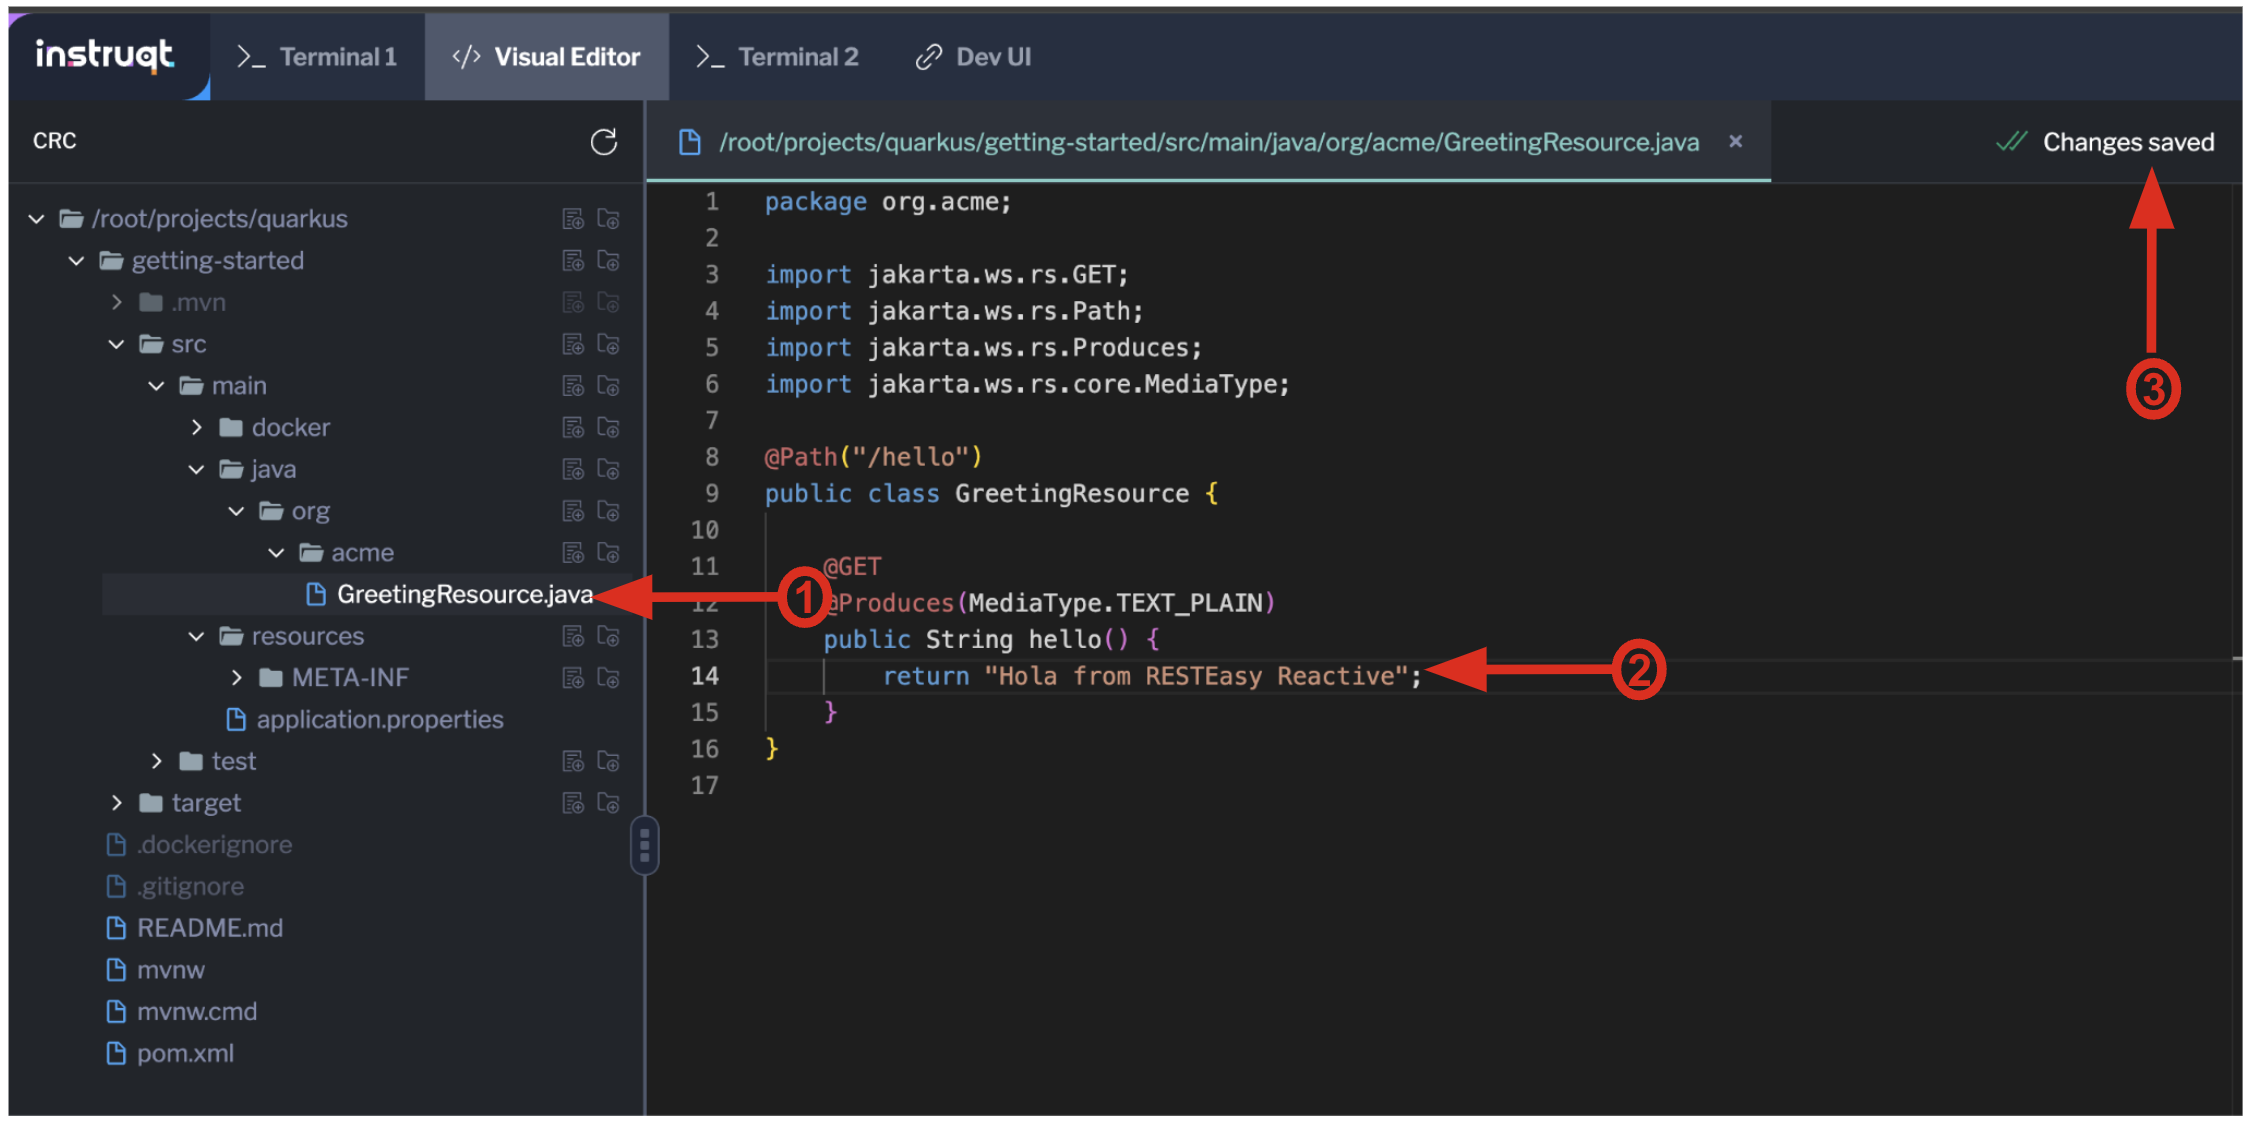
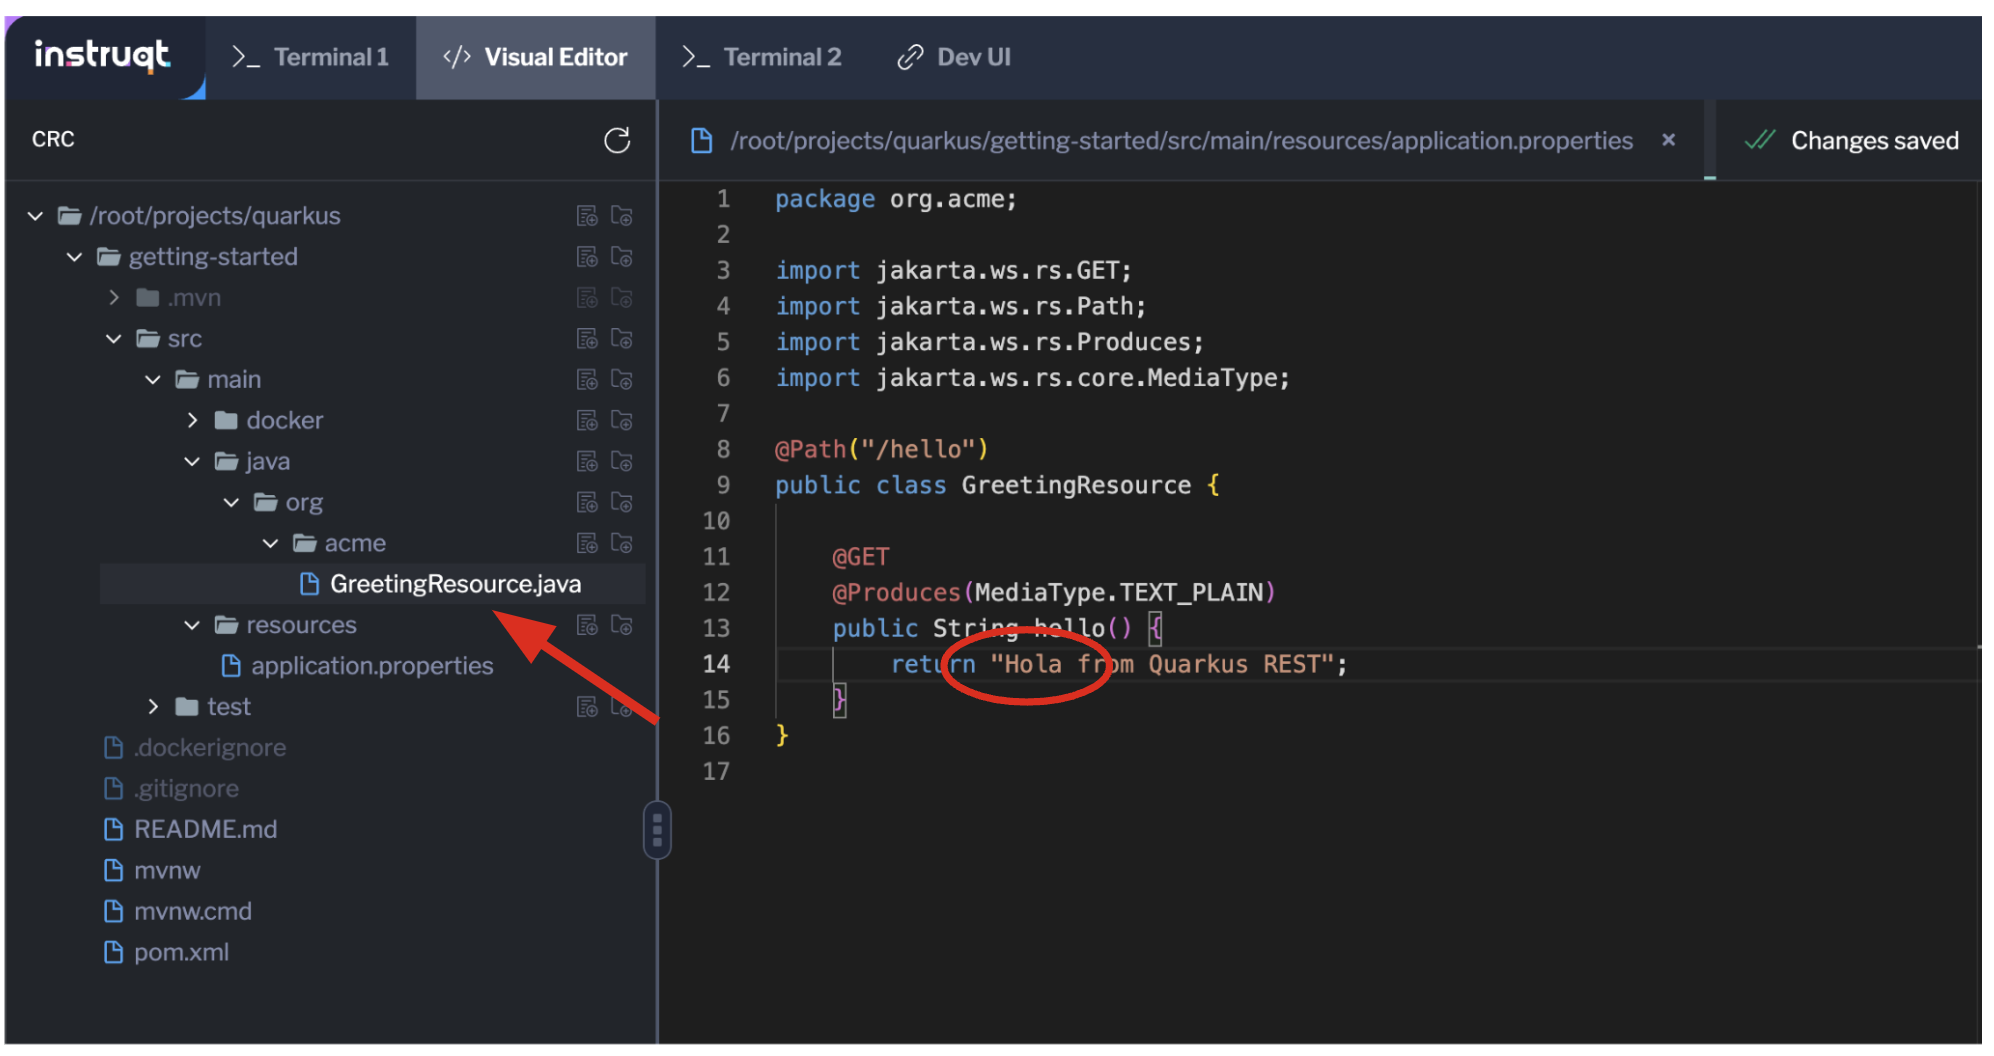
Update Quarkus Short

diff --git a/instruqt-tracks/developing-with-quarkus-getting-started-short/01-01-create-project/assignment.md b/instruqt-tracks/developing-with-quarkus-getting-started-short/01-01-create-project/assignment.md
@@ -114,7 +114,7 @@ You are ready to run the Quarkus application
 `Step 3` Run the following command in Terminal 1 to the left to compile and run the demonstration project.
 
 ```
-mvn quarkus:dev -Dquarkus.http.host=0.0.0.0 -f /root/projects/quarkus/getting-started
+mvn quarkus:dev -Dquarkus.http.host=0.0.0.0 -Dquarkus.analytics.disabled=true -f /root/projects/quarkus/getting-started
 ```
 
 There will be a lot of output to the screen. When the process is finished running, you will see the following:
@@ -127,7 +127,7 @@ __  ____  __  _____   ___  __ ____  ______
 --\___\_\____/_/ |_/_/|_/_/|_|\____/___/
 INFO  [io.quarkus] (Quarkus Main Thread) getting-started 1.0.0-SNAPSHOT on JVM (powered by Quarkus x.x.x) started in 3.618s.Listening on: http://0.0.0.0:8080
 INFO  [io.quarkus] (Quarkus Main Thread) Profile dev activated. Live Coding activated.
-INFO  [io.quarkus] (Quarkus Main Thread) Installed features: [cdi, resteasy-reactive, smallrye-context-propagation, vertx]
+INFO  [io.quarkus] (Quarkus Main Thread) Installed features: [cdi, rest, smallrye-context-propagation, vertx]
 
 --
 Tests paused
@@ -151,7 +151,7 @@ curl -w "\n" localhost:8080/hello/
 You'll get the following output:
 
 ```
-Hello from RESTEasy Reactive
+Hello from Quarkus REST
 ```
 
 As you can see, the service endpoint is up and running.
@@ -164,7 +164,7 @@ Let's take a look.
 
 ----
 
-You are going to change the output of the **Hello App** API application from `Hello RESTeasy Reactive` to `Hola RESTeasy Reactive` by doing nothing more than changing one line of code. Quarkus will take care of everything else.
+You are going to change the output of the **Hello App** API application from `Hello from Quarkus REST` to `Hola from Quarkus RESTe` by doing nothing more than changing one line of code. Quarkus will take care of everything else.
 
 ----
 
@@ -192,7 +192,7 @@ curl -w "\n" localhost:8080/hello/
 You'll get the following output with the new phrase:
 
 ```
-Hola from RESTEasy Reactive
+Hola from Quarkus REST
 ```
 
 As you can see, all you did was change a string in a line of code. Quarkus did the rest!
@@ -235,7 +235,7 @@ As you might recall, when you ran `mvn quarkus:dev` you were presented with the 
 
 ![CT start](../assets/ct-start.png)
 
-As you will see from all the red test class which means the unit test is failed. The reason for the failure is that previously you changed the word `Hello` to `Hola`. The unit test expects the output `Hello RESTEasy Reactive`. The output failed to meet the expectation.
+As you will see from all the red test class which means the unit test is failed. The reason for the failure is that previously you changed the word `Hello` to `Hola`. The unit test expects the output `Hello from Quarkus REST`. The output failed to meet the expectation.
 
 ![CT failure](../assets/ct-failure.png)
 
@@ -251,7 +251,7 @@ Let's fix the code and get the tests to pass.
 
 ----
 
-`Step 14:` Change `Hola RESTEasy Reactive` back to `Hello RESTEasy Reactive` in the editor.
+`Step 14:` Change `Hola from Quarkus REST` back to `Hello from Quarkus REST` in the editor.
 
 ----
 
